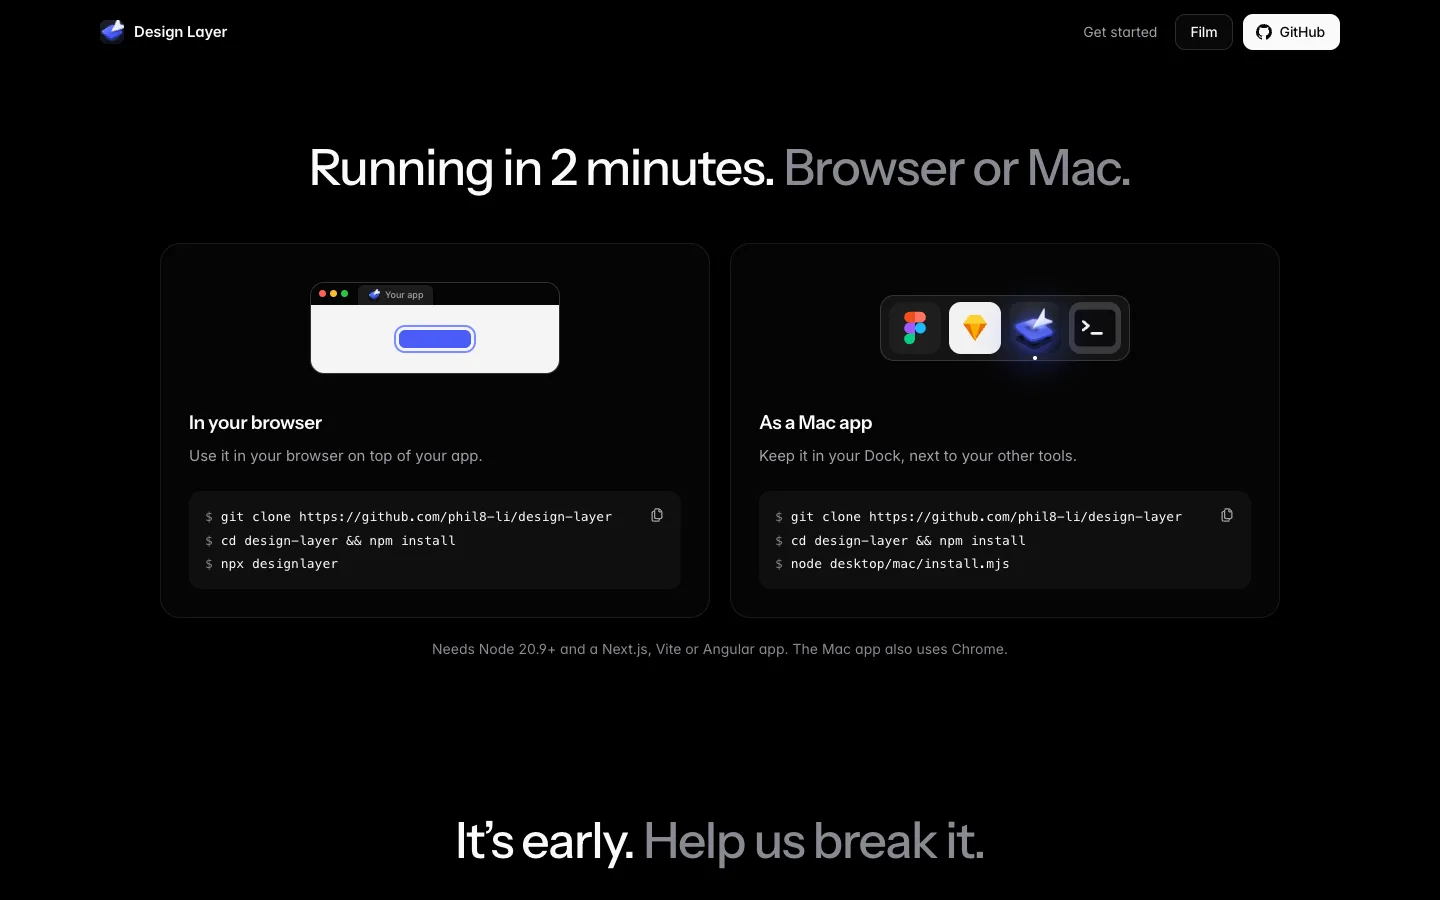
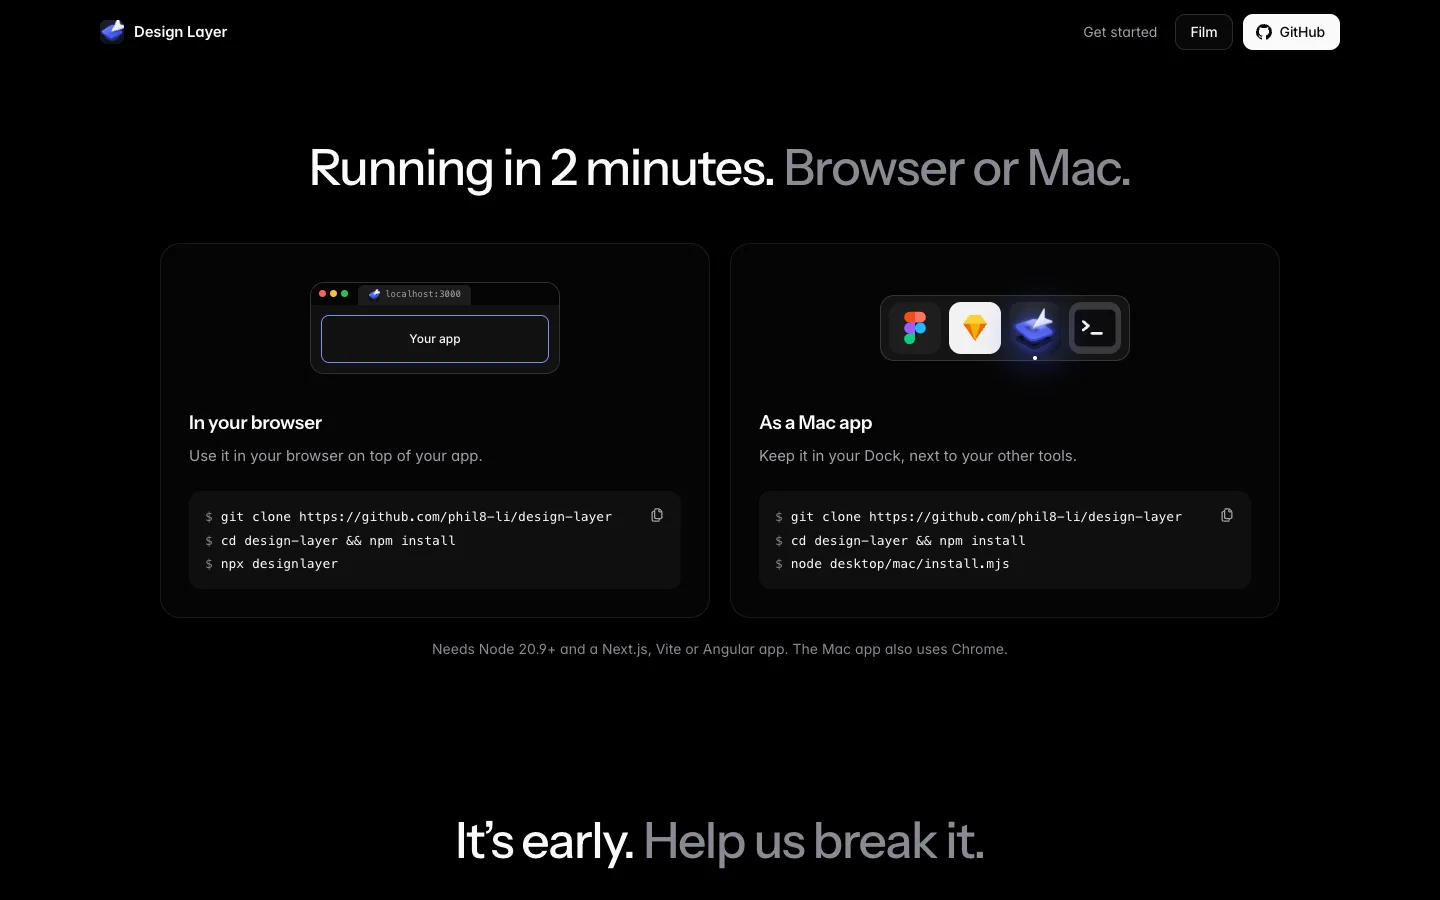
The browser card's window is an empty "Your app" page that Design Layer outlines
The tiny selected button on a light page read as rough and did not say
whose page it was. The window now holds an empty dark page with a dashed
"Your app" placeholder, which becomes Design Layer's solid indigo outline
as the section arrives (already solid under reduced motion). The tab
shows localhost:3000, so "Your app" appears once.

AI-assisted (CloudCode).

Changed region(s): [[0.2188, 0.3111, 0.4062, 0.4356]]

diff --git a/landing/styles.css b/landing/styles.css
@@ -1542,7 +1542,7 @@ h2 {
   margin-bottom: 24px;
 }
 
-/* One width for both: your app in a browser tab with an element selected, and the Dock. */
+/* One width for both: your app in a browser tab, and the Dock. */
 .mini-window,
 .mini-dock {
   width: 250px;
@@ -1589,35 +1589,32 @@ h2 {
   border-radius: 6px 6px 0 0;
   background: #1c1c1c;
   color: var(--text-2);
-  font: 500 9px/1 var(--font);
+  font: 9px/1 var(--mono);
 }
 
+/* Your app is left blank: a placeholder Design Layer outlines as it arrives. */
 .mini-canvas {
+  height: 68px;
+  padding: 10px;
+  background: #121212;
+}
+
+.mini-canvas span {
   display: grid;
   place-items: center;
-  height: 68px;
-  background: #f4f4f5;
+  height: 100%;
+  border: 1.5px dashed rgb(255 255 255 / 0.2);
+  border-radius: 8px;
+  color: var(--text-2);
+  font: 500 12px var(--font);
+  transition: 500ms var(--ease-out) 400ms allow-discrete;
+  transition-property: border-color, border-style, color;
 }
 
-.mini-canvas b {
-  width: 72px;
-  height: 18px;
-  border-radius: 6px;
-  background: var(--accent-fill);
-  outline: 2px solid var(--accent);
-  outline-offset: 3px;
-}
-
-.js .scene-browser .mini-canvas b {
-  outline-color: transparent;
-  outline-offset: 8px;
-  transition: 450ms var(--ease-out) 400ms;
-  transition-property: outline-color, outline-offset;
-}
-
-.scene-browser.is-in .mini-canvas b {
-  outline-color: var(--accent);
-  outline-offset: 3px;
+.scene-browser.is-in .mini-canvas span {
+  border-style: solid;
+  border-color: var(--accent);
+  color: var(--text);
 }
 
 .mini-dock {

diff --git a/landing/index.html b/landing/index.html
@@ -322,8 +322,8 @@ Loading…</code><code data-agent-close hidden></code></pre>
           <section class="path" aria-labelledby="path-browser">
             <div class="path-scene scene-browser" data-arrive aria-hidden="true">
               <div class="mini-window">
-                <div class="mini-tabs"><i></i><i></i><i></i><span class="mini-tab"><img src="assets/brand/mark.svg" width="12" height="12" alt="">Your app</span></div>
-                <div class="mini-canvas"><b></b></div>
+                <div class="mini-tabs"><i></i><i></i><i></i><span class="mini-tab"><img src="assets/brand/mark.svg" width="12" height="12" alt="">localhost:3000</span></div>
+                <div class="mini-canvas"><span>Your app</span></div>
               </div>
             </div>
             <h3 id="path-browser">In your browser</h3>

diff --git a/landing/DESIGN.md b/landing/DESIGN.md
@@ -22,7 +22,7 @@ who set it. A newer statement replaces the older line.
 
 ## Story
 
-- Get started: the two cards are twins. Each opens on a picture of one width (250px) and similar height (about 90px and 66px): for In your browser, a browser window kept simple (window buttons and a "Your app" tab; inside, only your app's page with one selected button, nothing else); for As a Mac app, only the Dock: Figma, Sketch, Design Layer (third) and Terminal. Then a title, one line and the commands. Scope: index.html `#start`, styles.css `.mini-window`, `.mini-dock`. Source: Phil, 2026-10-07.
+- Get started: the two cards are twins. Each opens on a picture of one width (250px) and similar height (about 90px and 66px): for In your browser, a browser window kept simple (window buttons and a `localhost:3000` tab; inside, an empty page with a dashed "Your app" placeholder that turns into Design Layer's solid indigo outline as the section arrives, no other content); for As a Mac app, only the Dock: Figma, Sketch, Design Layer (third) and Terminal. Then a title, one line and the commands. Scope: index.html `#start`, styles.css `.mini-window`, `.mini-dock`. Source: Phil, 2026-10-07.
 - Section order: after the hero comes Design like Figma, then the design system, then the board, then working with an agent, then the rest. Each section teaches one more capability on top of the hero's promise; there is no section between the hero and Design like Figma. Scope: index.html. Source: Phil, 2026-10-05.
 - A tabbed section only holds tabs that prove its headline. A feature that serves another section's promise moves there (Design options lives in the agent section as Compare); one that serves none is cut (Shortcuts, Responsive, Light theme and Live preview left Design like Figma). Scope: index.html. Source: Phil, 2026-10-05.
 - Headlines name the value plainly; no contrast phrases that need decoding ("Not ours" was cut). Scope: index.html. Source: Phil, 2026-10-05.
